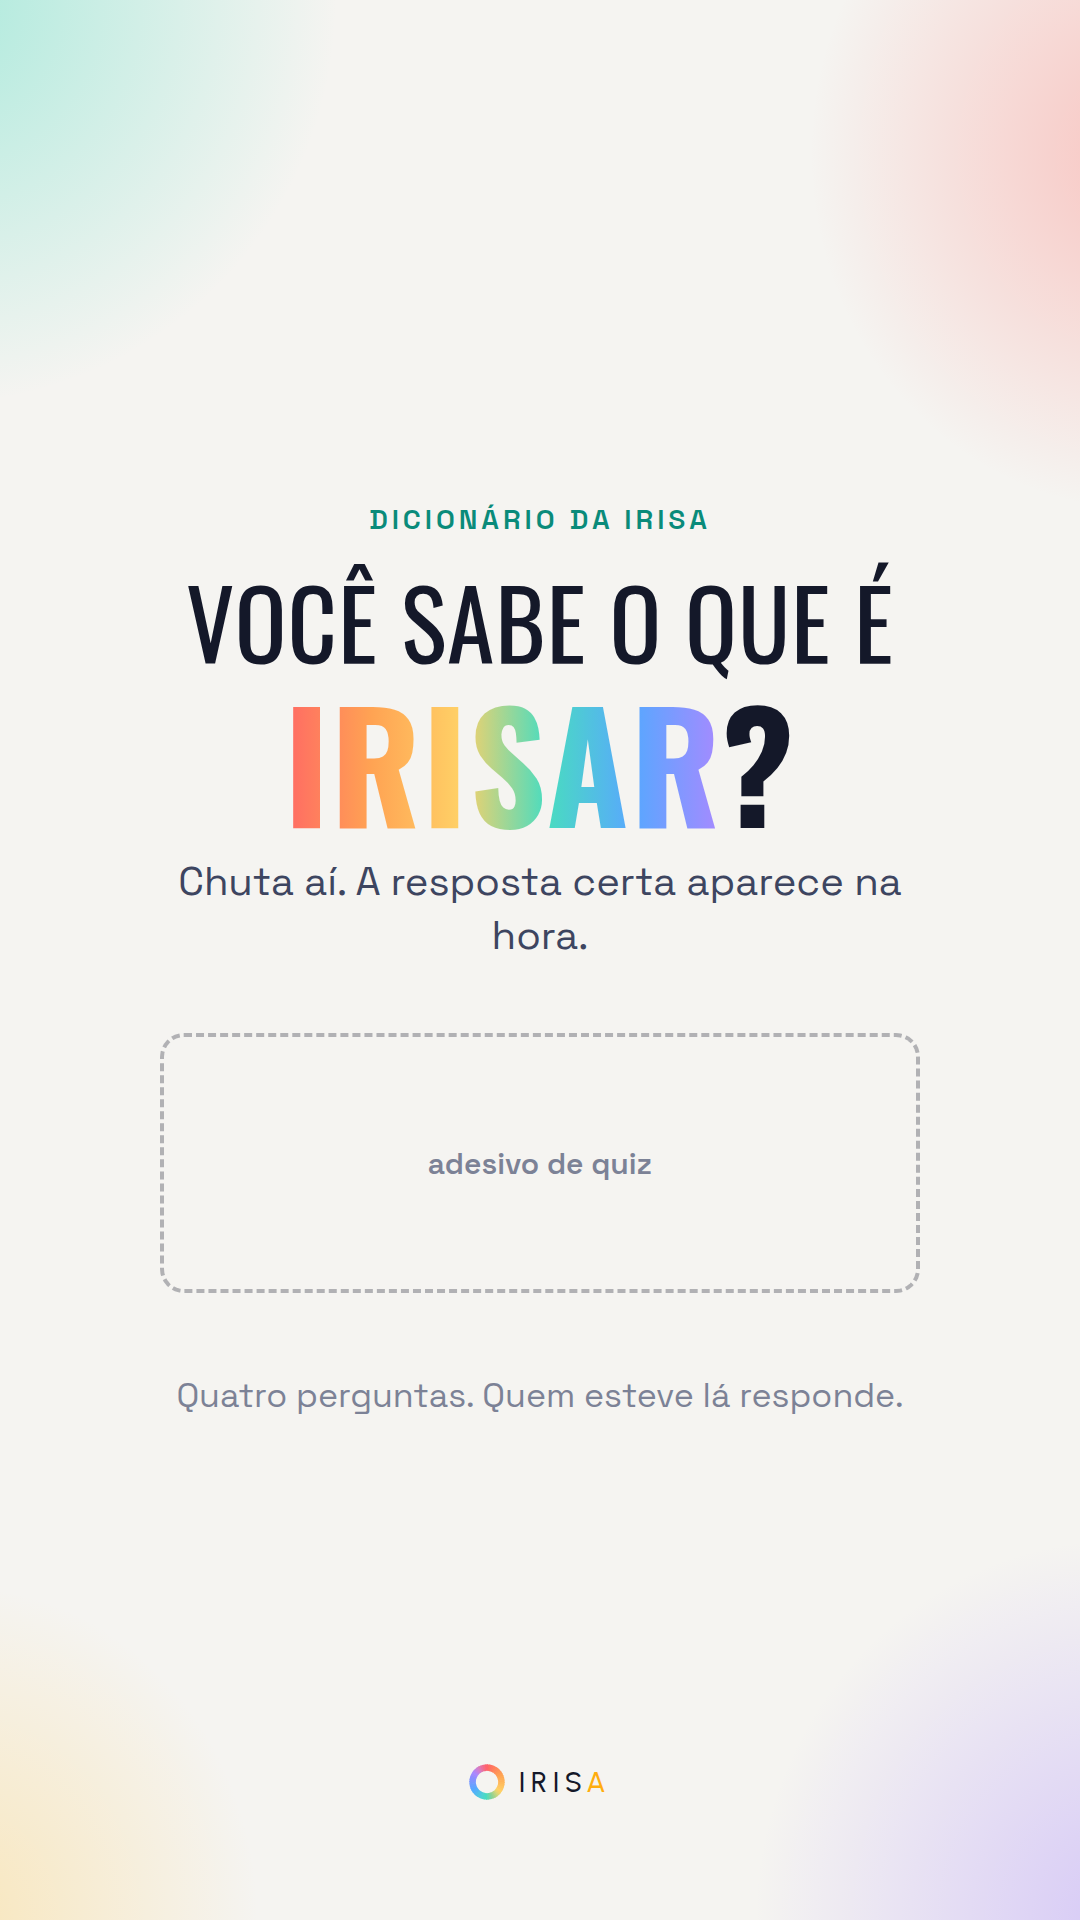
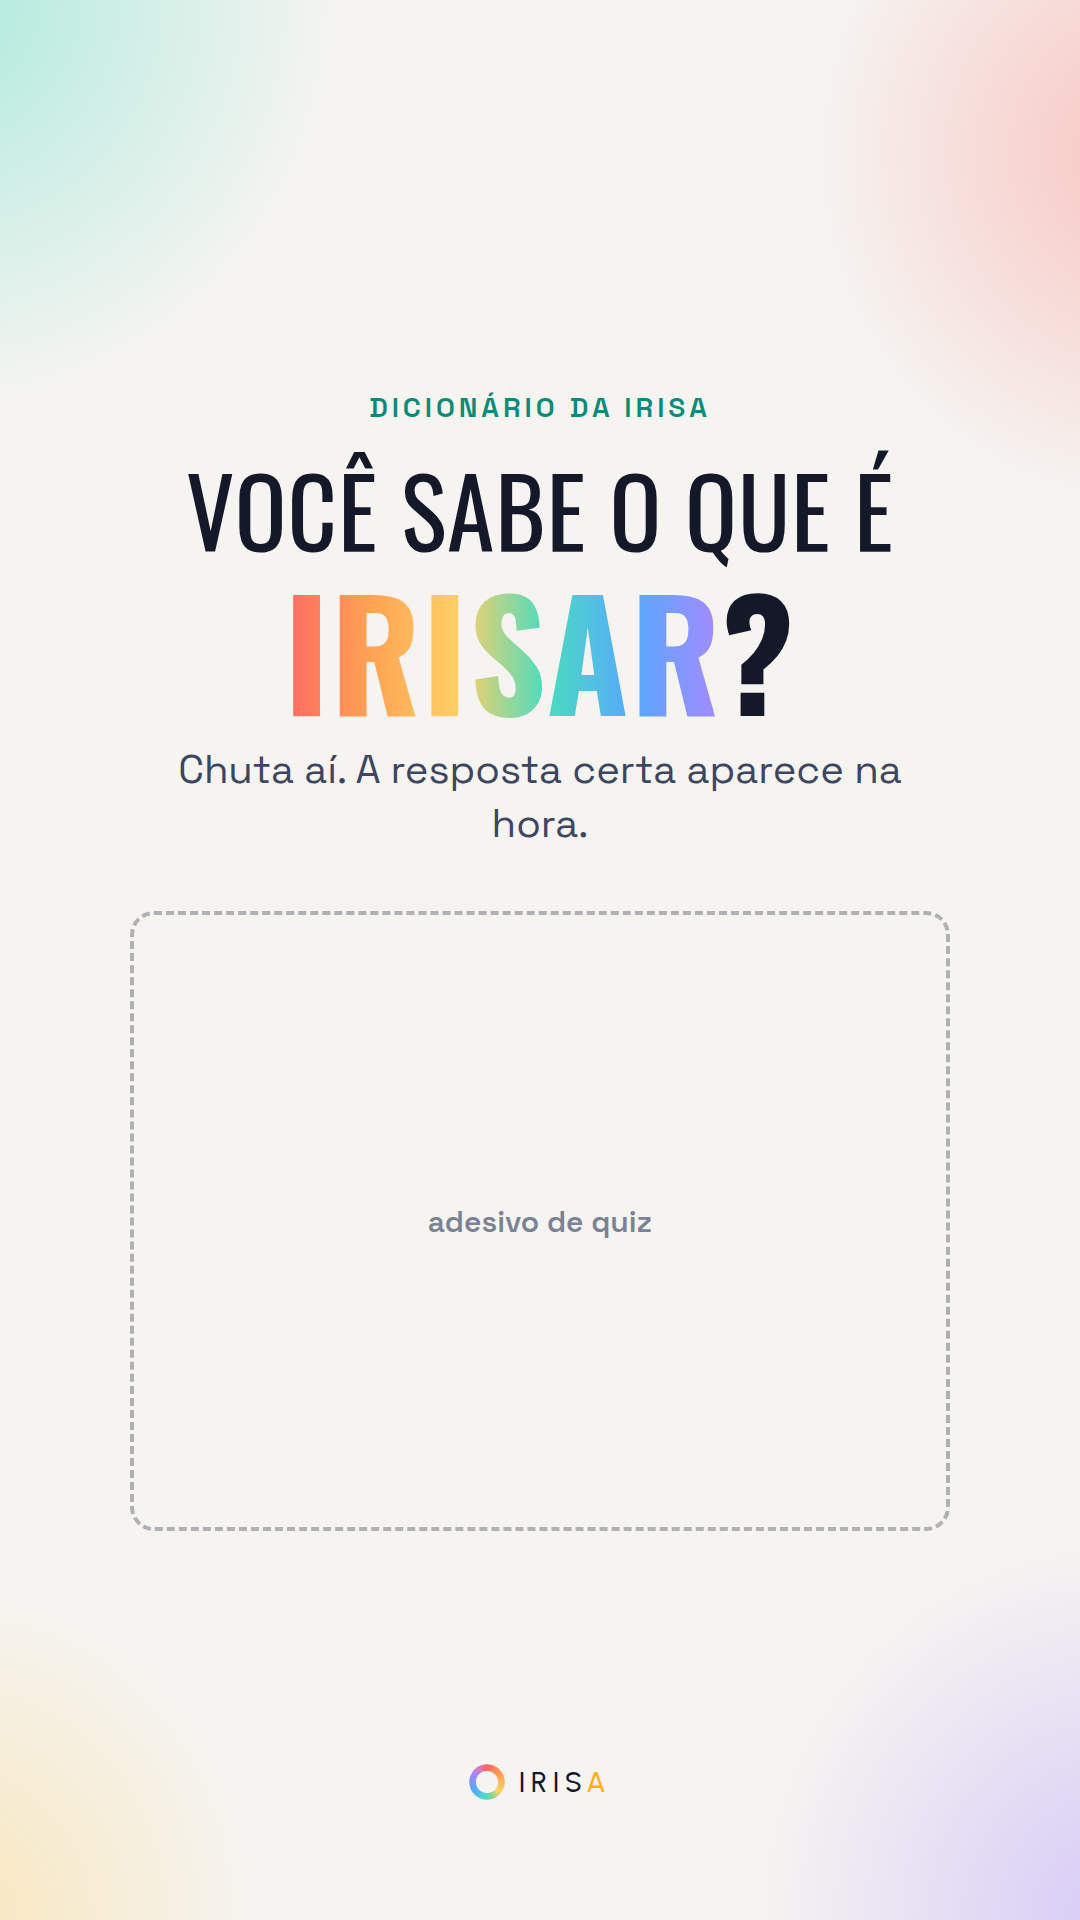
Area do adesivo do tamanho real do quiz
O adesivo de quiz do Instagram é bem maior que a área tracejada padrão:
ele cobria a linha de baixo. A área ganhou o tamanho dele e nada fica
embaixo.

Claude-Session: https://claude.ai/code/session_015WqfV53Y8EeDbiaJmrZRa2

diff --git a/docs/story-irisar.html b/docs/story-irisar.html
@@ -86,12 +86,12 @@ body{font-family:var(--body);color:var(--ink);display:flex;flex-direction:column
   <p class="big c" style="font-size:96px;margin:36px 0 18px"><span class="lt">Você sabe o que é</span></p>
   <p class="slam" style="margin:0 0 20px"><span class="rainbow">Irisar</span><span style="color:var(--ink)">?</span></p>
 
-  <p class="body c" style="max-width:820px;margin-bottom:70px">Chuta aí. A resposta certa aparece na hora.</p>
+  <p class="body c" style="max-width:820px;margin-bottom:60px">Chuta aí. A resposta certa aparece na hora.</p>
 
-  <div class="zone" style="height:260px">adesivo de quiz</div>
+  <!-- O adesivo de quiz do Instagram é bem maior que a área tracejada padrão:
+       aqui ela tem o tamanho real dele, e nada fica embaixo para ser coberto. -->
+  <div class="zone" style="width:820px;height:620px">adesivo de quiz</div>
 
-  <p class="body c" style="margin-top:80px;max-width:800px;font-size:34px;color:var(--dim)">
-    Quatro perguntas. Quem esteve lá responde.</p>
 </section>
 
 </body></html>
